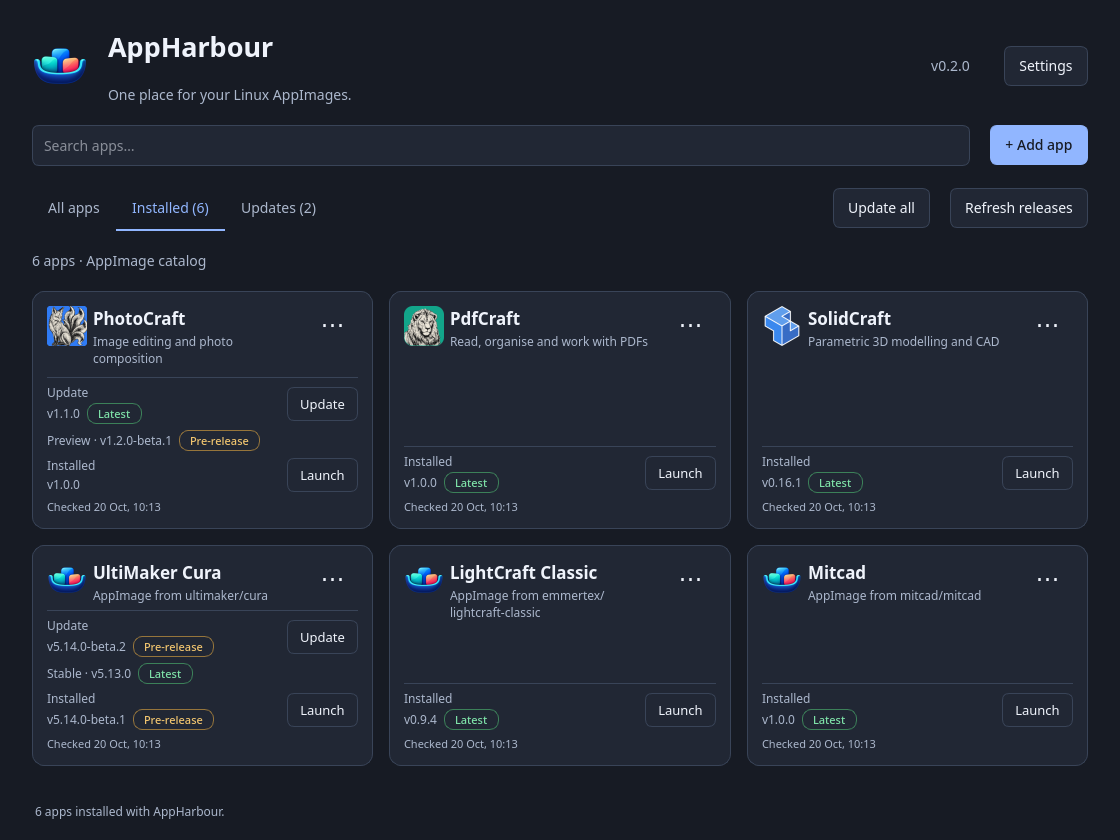
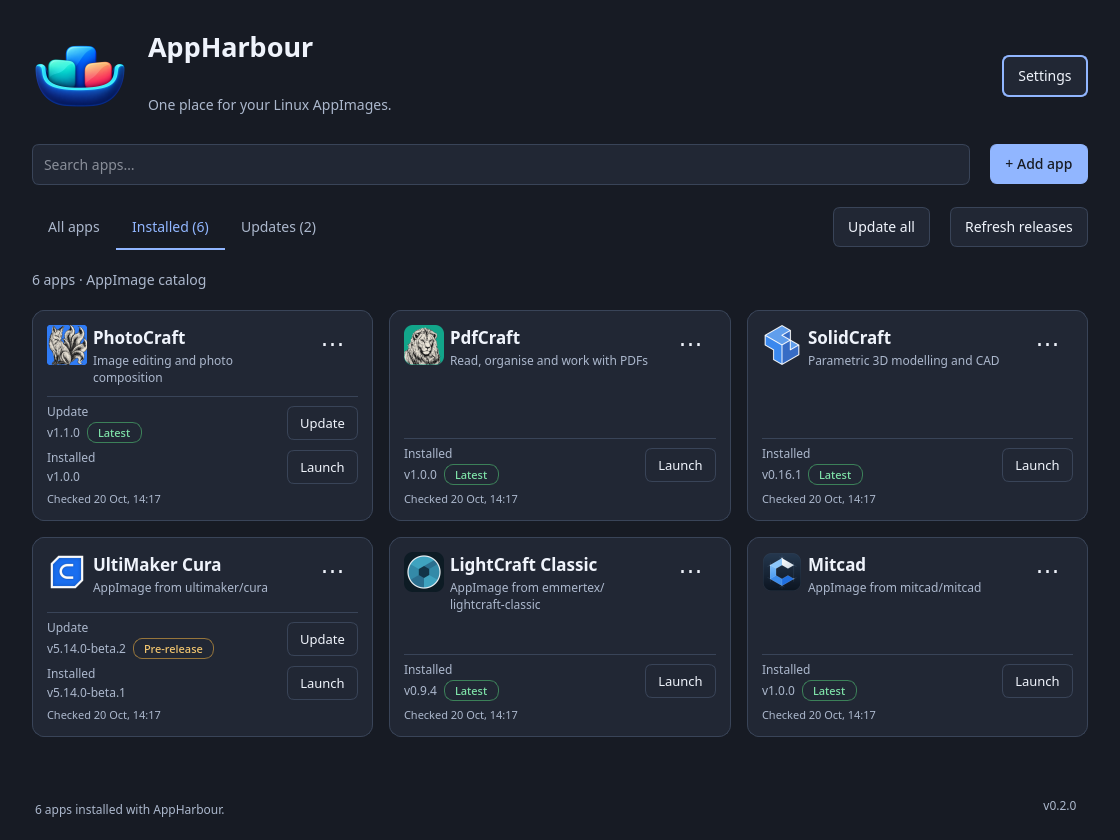
fix(ui): simplify release cards and polish branding

diff --git a/tests/test_gui.py b/tests/test_gui.py
@@ -317,6 +317,9 @@ class LibraryTests(unittest.TestCase):
 
     def test_clicking_name_opens_real_details_dialog(self) -> None:
         observed = []
+        info = self.release_info()
+        self.window.release_infos["solidcraft"] = info
+        self.window.apply_release_info(self.window.cards["solidcraft"].app)
 
         def close_details() -> None:
             dialog = self.qt.activeModalWidget()
@@ -331,6 +334,8 @@ class LibraryTests(unittest.TestCase):
         QTest.mouseClick(name, Qt.MouseButton.LeftButton)
         self.assertIn("About SolidCraft", observed)
         self.assertIn("tangency-labs/solidcraft", observed)
+        self.assertIn(info.stable.version, observed)
+        self.assertIn(info.preview.version, observed)
 
     def test_settings_save_cancel_and_theme_persistence(self) -> None:
         folder = str(Path(self.temp.name) / "future-apps")
@@ -467,7 +472,12 @@ class LibraryTests(unittest.TestCase):
             )
         card = self.window.cards[APP.id]
         self.assertEqual(card.available_version.badge.text(), "Latest")
-        self.assertEqual(card.other_version.badge.text(), "Pre-release")
+        self.assertNotIn(
+            info.preview.version,
+            " ".join(
+                label.text() for label in card.findChildren(QLabel) if label.isVisibleTo(card)
+            ),
+        )
         self.assertEqual(card.action_button.text(), "Install")
         self.assertEqual(self.window.tabs.tabText(2), "Updates (0)")
         self.assertFalse(hasattr(self.window, "rescan_button"))
@@ -503,8 +513,7 @@ class LibraryTests(unittest.TestCase):
         card = self.window.cards[APP.id]
         self.assertEqual(self.window.tabs.tabText(2), "Updates (1)")
         self.assertEqual(card.available_version.badge.text(), "Pre-release")
-        self.assertTrue(card.other_version.isHidden())
-        self.assertEqual(card.installed_version.badge.text(), "Latest")
+        self.assertTrue(card.installed_version.badge.isHidden())
         self.assertTrue(card.app.include_prereleases)
         reopened = LauncherWindow(self.settings, self.window.library)
         self.addCleanup(reopened.deleteLater)
@@ -514,6 +523,9 @@ class LibraryTests(unittest.TestCase):
         self.assertEqual(reopened.tabs.tabText(2), "Updates (1)")
         self.change_release_preference(0)
         self.assertEqual(self.window.tabs.tabText(2), "Updates (0)")
+        card = self.window.cards[APP.id]
+        self.assertTrue(card.available_version.isHidden())
+        self.assertEqual(card.installed_version.badge.text(), "Latest")
 
     def test_failed_refresh_retains_badges_and_shows_last_checked_without_dialog(self) -> None:
         info = replace(self.release_info(), checked_at=time.time() - 3600)
@@ -529,7 +541,7 @@ class LibraryTests(unittest.TestCase):
             warning.assert_not_called()
         card = self.window.cards[APP.id]
         self.assertEqual(card.available_version.badge.text(), "Latest")
-        self.assertEqual(card.other_version.badge.text(), "Pre-release")
+        self.assertEqual(self.window.release_infos[APP.id].preview, info.preview)
         self.assertIn("Refresh failed · checked", card.checked.text())
         self.assertIn("Offline", card.checked.toolTip())
 
@@ -662,7 +674,7 @@ class LibraryTests(unittest.TestCase):
                 warning.assert_called_once()
                 self.assertEqual(dialog.result(), 0)
 
-    def test_header_version_opens_about_and_settings_sections_are_accessible(self) -> None:
+    def test_footer_version_opens_about_and_settings_sections_are_accessible(self) -> None:
         observations = []
 
         def inspect_about() -> None:
@@ -675,8 +687,15 @@ class LibraryTests(unittest.TestCase):
                 dialog.reject()
 
         self.assertEqual(self.window.version_button.text(), f"v{APP_VERSION}")
+        self.assertEqual(
+            self.window.version_button.cursor().shape(), Qt.CursorShape.PointingHandCursor
+        )
+        self.assertEqual(self.window.version_button.toolTip(), "About AppHarbour")
+        self.assertGreater(
+            self.window.version_button.geometry().top(), self.window.scroll_area.geometry().bottom()
+        )
         QTimer.singleShot(0, inspect_about)
-        self.window.version_button.click()
+        QTest.mouseClick(self.window.version_button, Qt.MouseButton.LeftButton)
         self.assertEqual(observations, ["About"])
 
     def test_release_badges_describe_the_version_and_beta_waits_for_stable(self) -> None:
@@ -686,12 +705,14 @@ class LibraryTests(unittest.TestCase):
         )
         stable = Release("1.2.0", "solid.AppImage", "unused", 1, "0" * 64)
         card.set_state(beta, stable, False)
-        self.assertEqual(card.installed_version.badge.text(), "Pre-release")
+        self.assertTrue(card.installed_version.badge.isHidden())
         self.assertEqual(card.available_version.badge.text(), "Latest")
         self.assertTrue(card.update_button.isVisible())
         previous = Release("1.1.0", "solid.AppImage", "unused", 1, "0" * 64)
         card.set_state(beta, previous, False)
         self.assertFalse(card.update_button.isVisible())
+        self.assertTrue(card.available_version.isHidden())
+        self.assertEqual(card.installed_version.badge.text(), "Pre-release")
         self.assertIn("Waiting for a newer stable", card.checked.text())
         self.assertEqual(card.action_button.text(), "Launch")
         current = Installed(beta.path, "1.1.0", True)
@@ -700,6 +721,33 @@ class LibraryTests(unittest.TestCase):
         card.set_state(current, stable, False)
         self.assertEqual(card.installed_version.badge.text(), "")
         self.assertEqual(card.available_version.badge.text(), "Latest")
+
+    def test_preview_update_card_only_shows_the_update_and_installed_version(self) -> None:
+        info = self.release_info()
+        installed = Installed(
+            Path(self.temp.name) / "cura.AppImage", "1.1.0-beta.0", True, prerelease=True
+        )
+        card = self.window.cards[APP.id]
+        card.set_state(installed, info.preview.release, False, info=info)
+        self.assertEqual(card.available_version.text.text(), f"v{info.preview.version}")
+        self.assertEqual(card.installed_version.text.text(), f"v{installed.version}")
+        self.assertEqual(card.available_version.badge.text(), "Pre-release")
+        self.assertTrue(card.installed_version.badge.isHidden())
+        self.assertEqual(card.action_button.text(), "Launch")
+        self.assertTrue(card.update_button.isVisible())
+        self.assertNotIn(
+            f"v{info.stable.version}",
+            " ".join(
+                label.text() for label in card.findChildren(QLabel) if label.isVisibleTo(card)
+            ),
+        )
+        self.assertEqual(
+            sum(badge.isVisibleTo(card) for badge in card.findChildren(QLabel, "releaseBadge")), 1
+        )
+
+        card.set_state(installed, None, False, info=info)
+        self.assertTrue(card.available_version.isHidden())
+        self.assertEqual(card.installed_version.badge.text(), "Pre-release")
 
     def test_preview_only_installation_waits_after_disabling_previews(self) -> None:
         info = self.release_info()

diff --git a/src/appharbour/window.py b/src/appharbour/window.py
@@ -67,7 +67,6 @@ from appharbour.releases import (
     cached_release,
     check_cancel,
     latest_release,
-    version_key,
 )
 from appharbour.repositories_dialog import RepositoriesDialog
 from appharbour.version_label import VersionLabel
@@ -163,8 +162,6 @@ class AppCard(QFrame):
         self.available_row.addWidget(self.available_version, stretch=1)
         self.available_row.addWidget(self.update_button)
         layout.addLayout(self.available_row)
-        self.other_version = VersionLabel()
-        layout.addWidget(self.other_version)
         self.installed_version = VersionLabel()
         self.status = self.installed_version.text
         self.installed_row = QHBoxLayout()
@@ -228,14 +225,13 @@ class AppCard(QFrame):
             and not newer
             and (release is None or release.version != installed.version)
         )
-        self.available_version.setVisible(bool(newer or waiting or not installed))
+        self.available_version.setVisible(bool(newer or not installed))
         if release:
-            label = "Update" if newer else "Stable" if waiting else "Available"
             self.available_version.set_version(
                 f"v{release.version}",
                 release.prerelease,
                 release.is_latest,
-                caption=label,
+                caption="Update" if newer else "Available",
             )
         else:
             choice = info.choice(self.app.include_prereleases) if info else None
@@ -251,38 +247,18 @@ class AppCard(QFrame):
                 else "Release not checked"
             )
         self.available_version.setToolTip(error)
-        other = None
-        if info:
-            if self.app.include_prereleases and info.choice(True) is not info.stable:
-                other = info.stable
-            elif info.preview and (
-                info.stable is None or info.preview.version != info.stable.version
-            ):
-                stable = info.stable
-                if stable is None or version_key(info.preview.version) > version_key(
-                    stable.version
-                ):
-                    other = info.preview
-        if other and installed and other.version == installed.version:
-            other = None
-        self.other_version.setVisible(other is not None)
-        if other is not None:
-            if other.release:
-                self.other_version.set_version(
-                    f"{'Preview' if other.release.prerelease else 'Stable'} · v{other.version}",
-                    other.release.prerelease,
-                    other.release.is_latest,
-                )
-            else:
-                self.other_version.set_version(f"Preview v{other.version} unavailable")
-            self.other_version.setToolTip(other.error)
         self.installed_version.setVisible(installed is not None)
         if installed:
             latest = info.stable.release if info and info.stable else release
             self.installed_version.set_version(
                 f"v{installed.version}" if installed.version else "Unknown",
-                installed.prerelease,
-                bool(latest and latest.version == installed.version and latest.is_latest),
+                installed.prerelease and not newer,
+                bool(
+                    not newer
+                    and latest
+                    and latest.version == installed.version
+                    and latest.is_latest
+                ),
                 caption="Installed",
             )
             self.status.setToolTip(f"Installed with AppHarbour\n{installed.path}")
@@ -613,8 +589,8 @@ class LauncherWindow(QMainWindow):
         self.setCentralWidget(body)
         header = QHBoxLayout()
         logo = QLabel()
-        logo.setPixmap(self.windowIcon().pixmap(56, 56))
-        logo.setFixedSize(56, 56)
+        logo.setPixmap(self.windowIcon().pixmap(96, 96))
+        logo.setFixedSize(96, 96)
         logo.setAccessibleName(APP_NAME)
         header.addWidget(logo)
         titles = QVBoxLayout()
@@ -629,8 +605,9 @@ class LauncherWindow(QMainWindow):
         self.version_button = QPushButton(f"v{APP_VERSION}")
         self.version_button.setObjectName("versionButton")
         self.version_button.setAccessibleName(f"About AppHarbour {APP_VERSION}")
+        self.version_button.setToolTip("About AppHarbour")
+        self.version_button.setCursor(Qt.CursorShape.PointingHandCursor)
         self.version_button.clicked.connect(lambda: self.open_settings(3))
-        header.addWidget(self.version_button)
         settings_button = QPushButton("Settings")
         settings_button.clicked.connect(lambda: self.open_settings())
         header.addWidget(settings_button)
@@ -689,6 +666,7 @@ class LauncherWindow(QMainWindow):
         self.cancel_button.clicked.connect(self.cancel_task)
         self.cancel_button.hide()
         progress_row.addWidget(self.cancel_button)
+        progress_row.addWidget(self.version_button)
         layout.addLayout(progress_row)
         self.cards = {app.id: self.create_card(app) for app in self.apps}
         self.search.textChanged.connect(self.refresh)
@@ -1290,7 +1268,10 @@ class LauncherWindow(QMainWindow):
                 border-color: {"#3c8159" if dark else "#89bd9b"}; }}
             QLabel#releaseBadge[release="prerelease"] {{ color: {"#f0c46e" if dark else "#895b00"};
                 border-color: {"#96753b" if dark else "#c7a660"}; }}
-            QPushButton#versionButton {{ background: transparent; border: none; color: {muted}; }}
+            QPushButton#versionButton {{ background: transparent; border: 1px solid transparent;
+                color: {muted}; font-size: 12px; padding: 5px 10px; }}
+            QPushButton#versionButton:hover, QPushButton#versionButton:focus {{
+                background: {surface}; border-color: {accent}; color: {accent}; }}
             QListWidget#settingsSections {{ border: none; background: transparent; outline: 0; }}
             QListWidget#settingsSections::item {{ padding: 12px; border-radius: 7px; }}
             QListWidget#settingsSections::item:selected {{

diff --git a/docs/usage.md b/docs/usage.md
@@ -45,8 +45,10 @@ release. It never automatically downgrades to an older stable version. The expli
 **Roll back** action can still restore the previous installed version.
 
 Green **Latest** badges identify GitHub's designated latest stable release. Amber
-**Pre-release** badges identify preview releases. Each badge belongs to the adjacent
-version: an installed preview and an available stable update can show different badges.
+**Pre-release** badges identify preview releases. Cards show the installed version and
+any eligible update. Release badges appear only beside the primary version. When an update is
+available, its version carries the badge and the installed version appears underneath.
+Click an application's name to view the other stable and preview releases in its details.
 
 Discovery examines up to 30 recent releases, plus GitHub's designated latest stable
 release. The API normally uses two metadata requests per repository: the latest stable release
@@ -54,8 +56,8 @@ and a recent-release listing. Checksums can require additional requests. The pub
 fallback examines up to three pages of ten releases. Unrecognised version tags are excluded.
 If the newest eligible version lacks a compatible AppImage or checksum, discovery explains the problem rather
 than silently choosing an older download. Previews use the same CPU and SHA-256 checks
-as stable releases. Cards show a newer preview even when you follow stable releases;
-that notice does not count as an update until previews are enabled. Changing the release preference
+as stable releases. Previews shown in details only qualify as updates when previews
+are enabled for that application. Changing the release preference
 saves your choice without installing anything. GitHub's public-page fallback also respects
 this preference when its API quota is exhausted. If a project only publishes previews, AppHarbour explains
 that previews must be enabled before adding it.
@@ -119,7 +121,7 @@ an explanation. No GitHub token is needed.
 ## Settings and desktop integration
 
 Settings has General, Applications, Storage and About sections.
-The version button at the top right opens About.
+The version button at the bottom right opens About. It highlights on hover or keyboard focus.
 Choose System / Light / Dark appearance and the folder for new installations.
 Changing the folder leaves existing installations in place; their updates stay with them.
 

diff --git a/README.md b/README.md
@@ -10,7 +10,8 @@ GitHub repositories in one place.
 
 Example library with [UltiMaker Cura](https://github.com/Ultimaker/Cura),
 [LightCraft Classic](https://github.com/emmertex/lightcraft-classic) and
-[Mitcad](https://github.com/mitcad/Mitcad) added from GitHub. Versions shown are illustrative.
+[Mitcad](https://github.com/mitcad/Mitcad) added from GitHub with their repository icons.
+Versions shown are illustrative.
 
 ## Features
 
